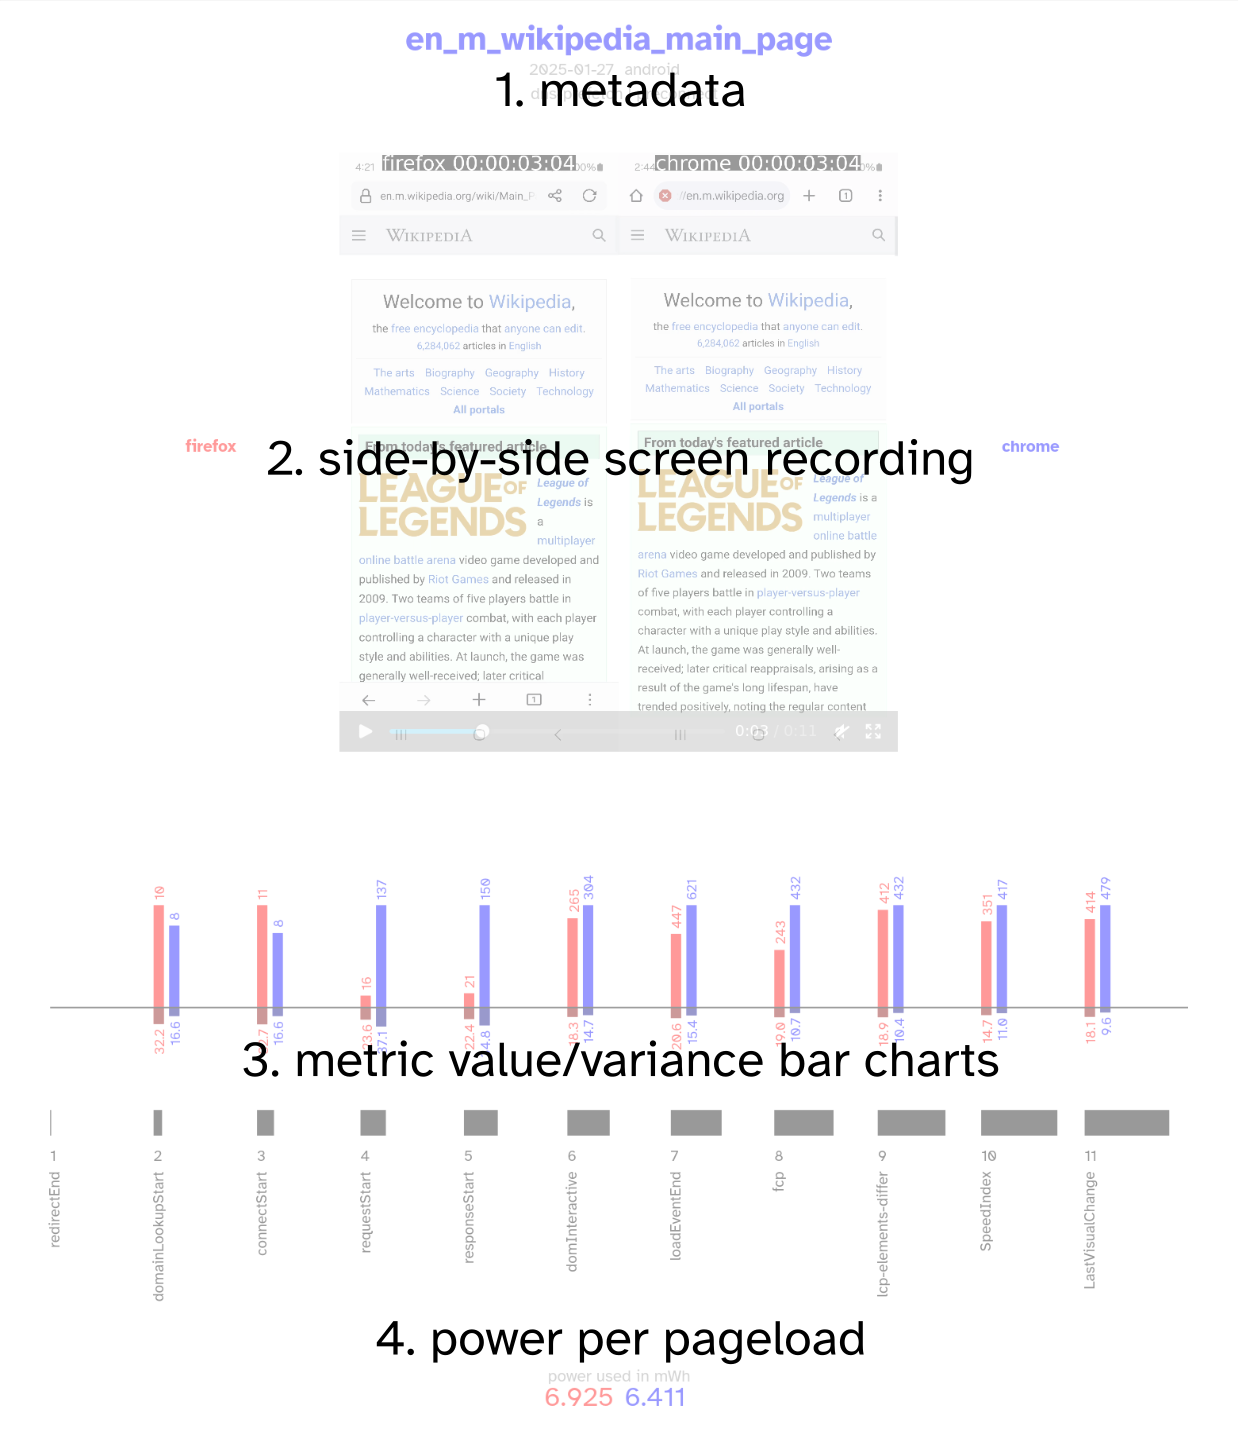
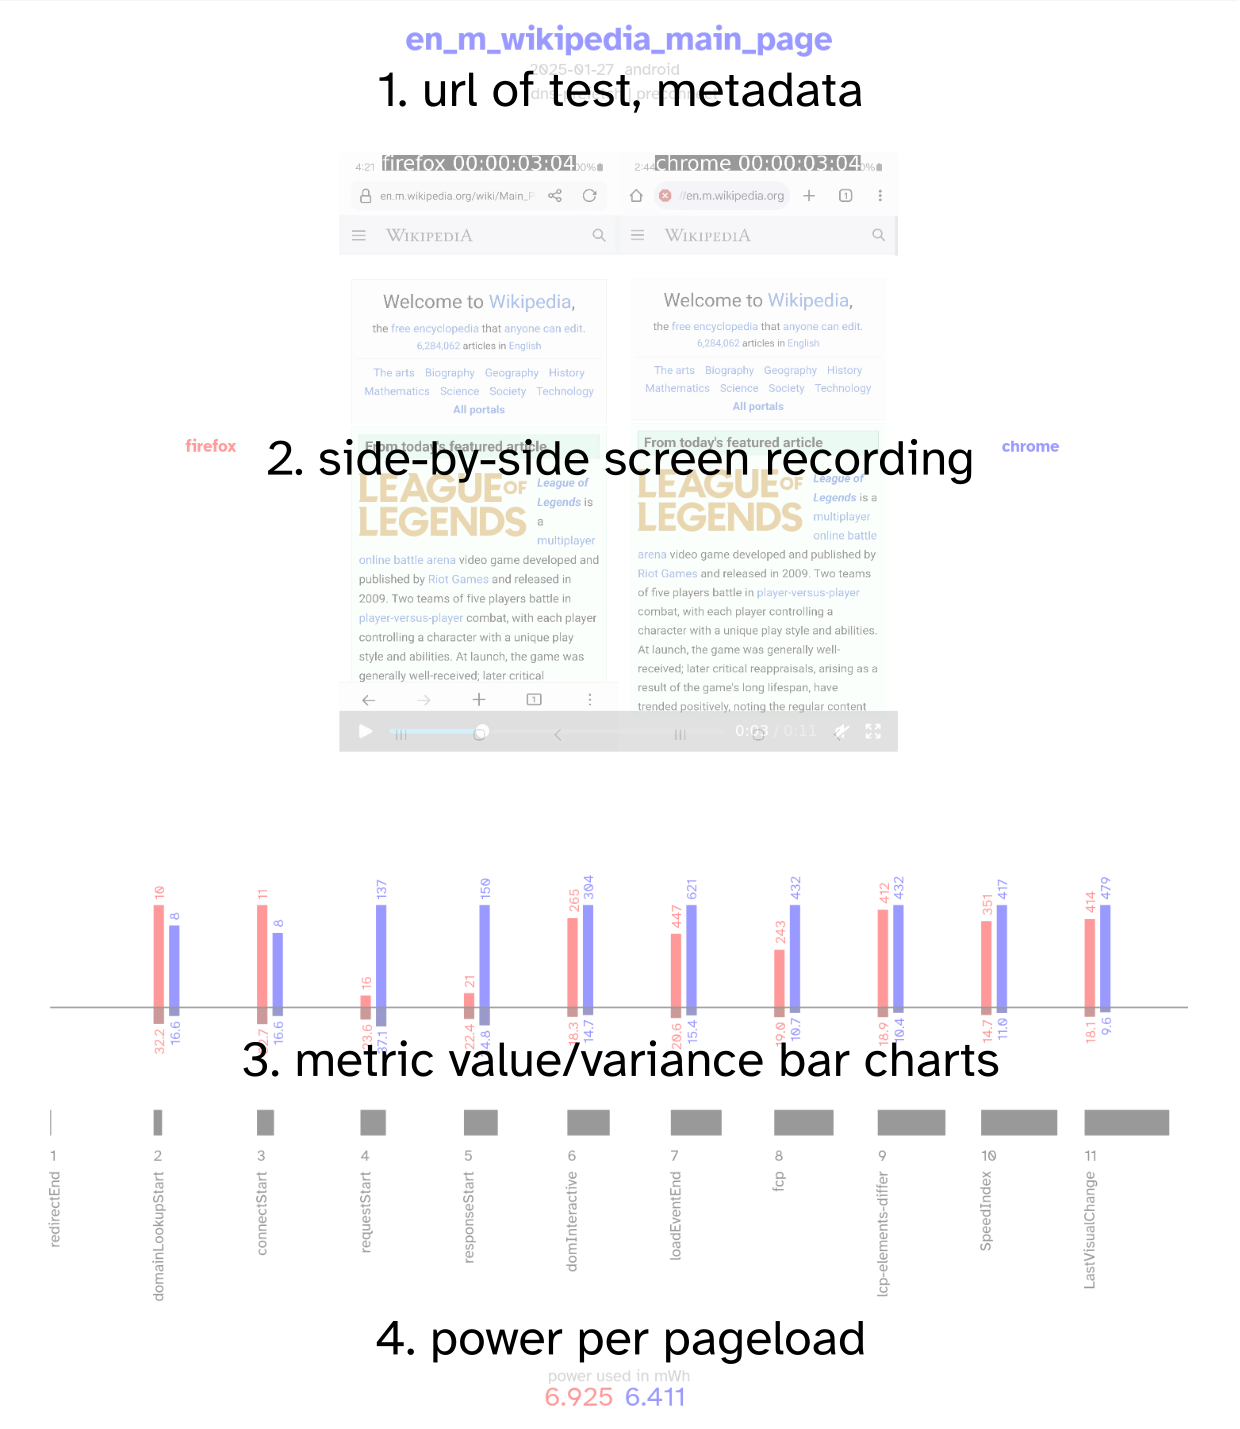
initial documentation of visual form

diff --git a/docs/about_2.md b/docs/about_2.md
@@ -1,3 +1,15 @@
+![annotations for visual forms](perf-glyph-composite-annotated.png "Annotations")
+
 # page annotated
 
-![annotations for visual forms](perf-glyph-composite-annotated.png "Annotations")
+## 1
+Three lines, the first is the test name, which is clickable to the URL being tested. The second is the date of the test, and the operating stystem used to test the browser (mac, linux, android, windows). The third line contains attributes of the page content, and optimizations like 'rel=preload' used to enhance performance.
+
+## 2
+Side by side video of firefox on the left and chrome on the right. Controls to play/pause are on the bottom of the video frame.
+
+## 3
+Progressive page load glyph. Twelve metrics arranged from left to right, with metrics closer to the left occurring closer to the start of page load, and metrics to the right occurring closer to the end of page load. Each metric has a vertical group consisting of three sections. One, a top bar chart of the metric values, in milliseconds. Firefox is in red and to the left, chrome is in blue and to the right: these metrics are scaled in relation to each other, but not the other metrics. Two, below the horizontal rule, is the relative standard deviation, a measure of variance, as a percentage from 0-100. Three, a number and name for the metric next to a variable-sized black rectangle that gets larger as the metrics progress from left to right. Lower is better.
+
+## 4
+Power used by the browser to complete the page load, in mWH (milli watt hours). Lower is better.

diff --git a/docs/about_1.md b/docs/about_1.md
@@ -1,3 +1,5 @@
+![progressive fade in](perf-glyph-fade-in.png "Progression Through Page Load")
+
 # pageload metrics
 
-![progressive fade in](perf-glyph-fade-in.png "Progression Through Page Load")
+A collection of metrics that represent the progress of a web browser page load from the beginning of the browser request until the page is finished loading. There are many metrics, the twelve selected are picked due to current practice and observation on general page load behavior. YMMV. Metrics come from W3C Navigation Timing, Visual Metrics, Google's Web Vitals, and specialty metrics devised to detail network performance, accessibilty performance, or other focus area.
